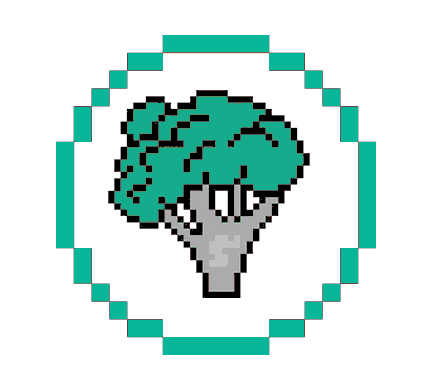
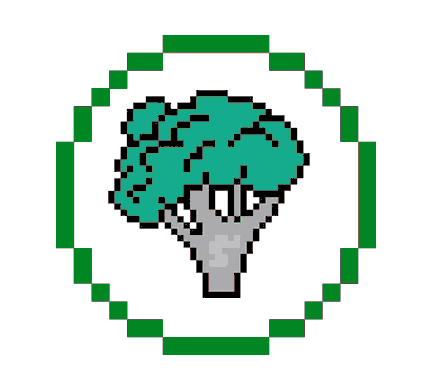
circles color changed, impact effect changed, burger pic fixed

Changed region(s): [[0.1212, 0.0935, 0.8788, 0.9351]]

diff --git a/styles.css b/styles.css
@@ -81,12 +81,13 @@ body {
 .flatEgg {
   position: absolute;
   background-image: url(Images/enemies/burger.png);
-  background-size: contain;
+  background-size: cover;
 }
 
 .thickBurger {
   position: absolute;
-  background-image: url(Images/enemies/burgerCircle.png);
+  background-image: url(Images/goodies/burgerCircle.png);
+  background-size: cover;
 }
 
 #lives {
@@ -260,15 +261,15 @@ body {
 }
 
 .laptop {
-  height: 180px;
-  margin-left: 260px;
-  margin-top: 50px;
+  height: 270px;
+  margin-left: 200px;
+  margin-top: 10px;
   opacity: 0.8;
 }
 
 .gameOverTitle {
   width: 700px;
-  margin-top: -207px;
+  margin-top: -242px;
   margin-left: 0px;
 }
 

diff --git a/handsUp.js b/handsUp.js
@@ -53,7 +53,7 @@ class HandsUp {
                     enemy.type === 'htmlEnemy' ||
                     enemy.type === 'cssEnemy' ) {
 
-                    Rebootnator.score += 1000
+                    Rebootnator.score += 100
                     
                 } else if (enemy.type === 'airconEnemy' ||
                     enemy.type === 'gamechairEnemy' ||
